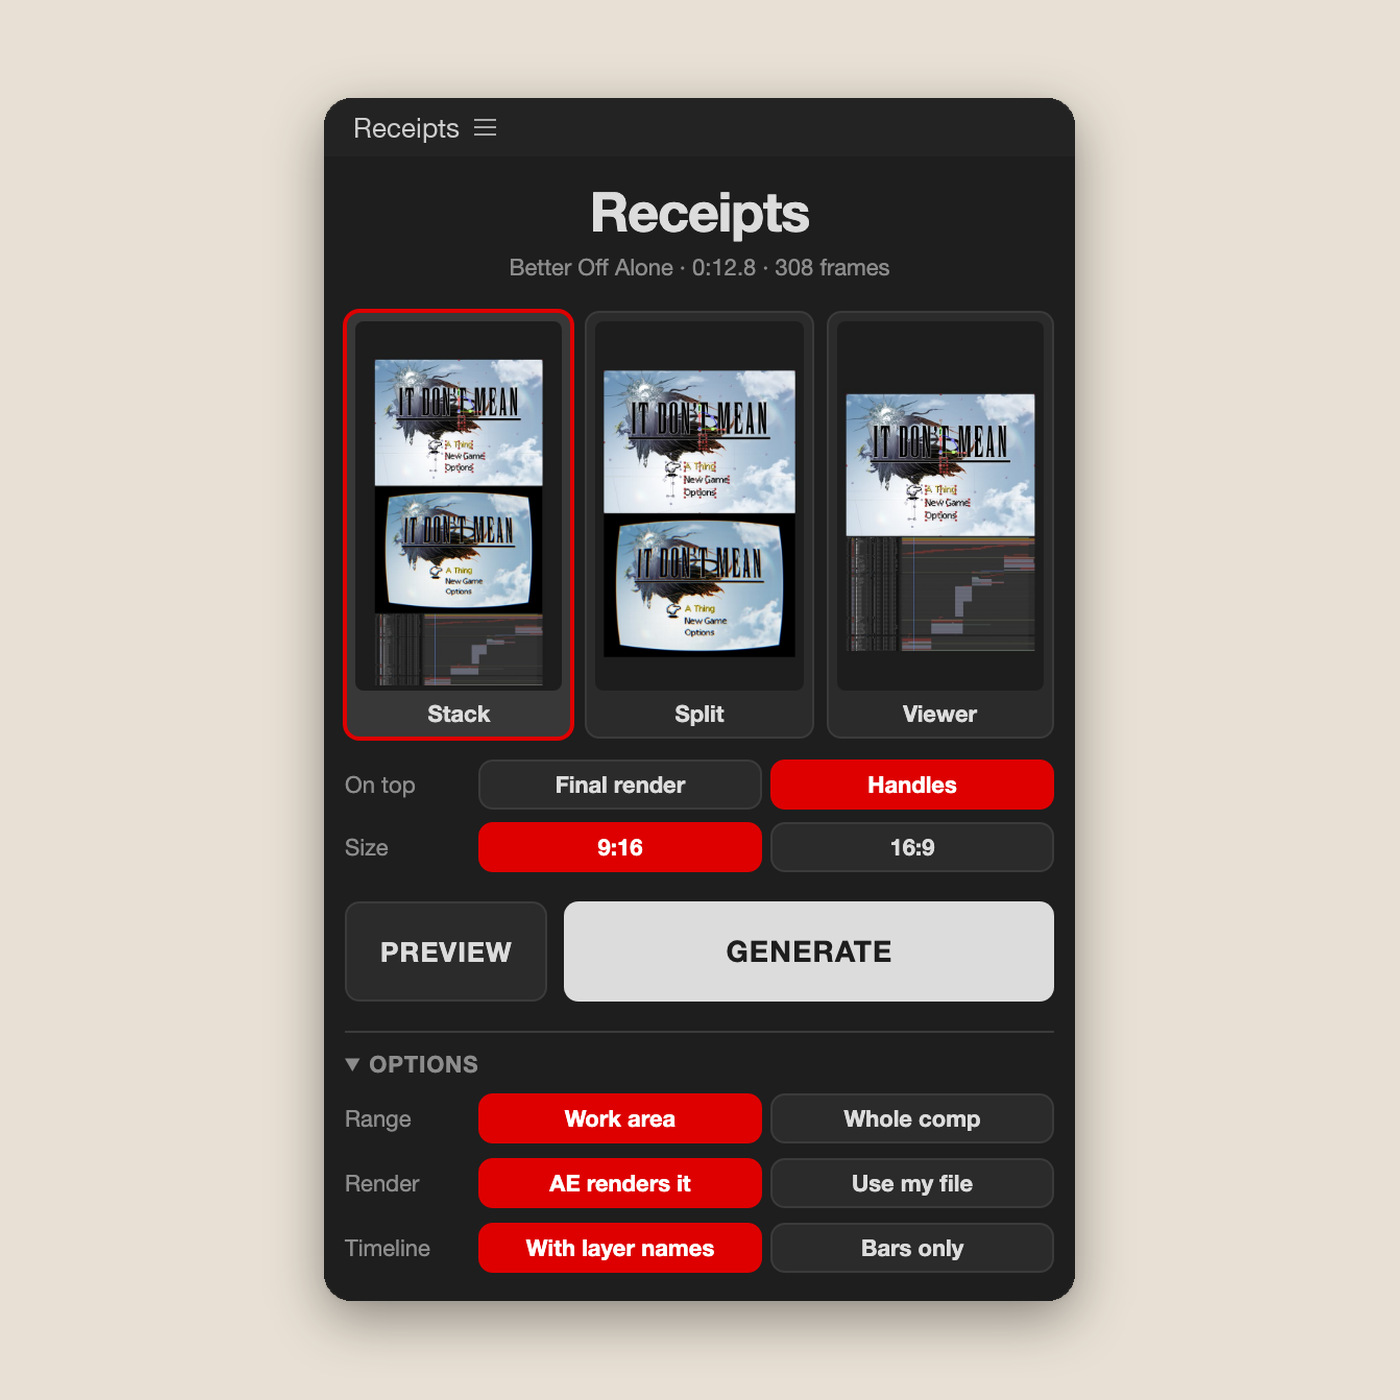
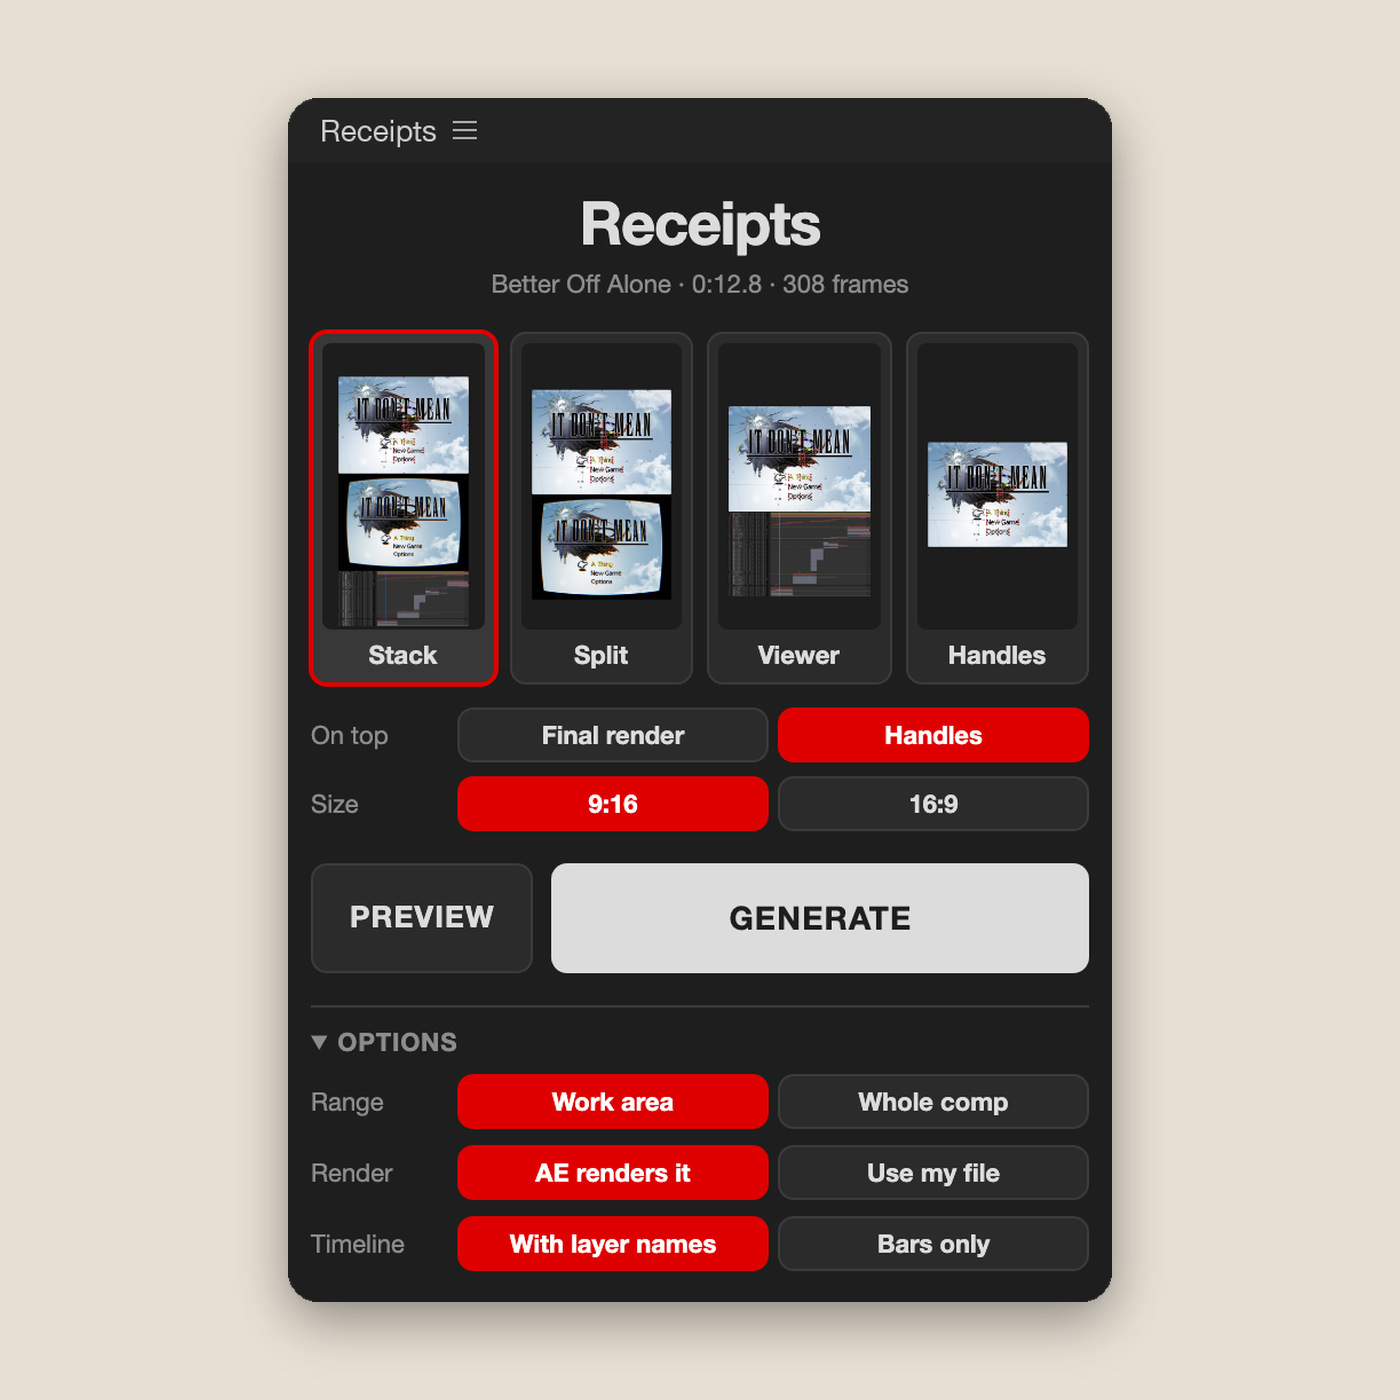
Receipts panel shot: four looks with Handles

Changed region(s): [[0.1843, 0.0614, 0.8293, 0.9521], [0.5836, 0.7679, 0.7371, 0.9214]]

diff --git a/assets/js/plugins.js b/assets/js/plugins.js
@@ -151,20 +151,21 @@ const plugins = [
          panel on its card, then each control in order. Cut from the same
          capture as the still and placed in percent of the card, so the last
          frame IS the still. Rebuild them together. */
-      { src: 'projects/plugins/receipts-ui.jpg?v=3', alt: 'The Receipts panel',
-        build: { base: 'projects/plugins/receipts-build/base.jpg?v=2', layers: [
-          { src: 'projects/plugins/receipts-build/01-header.png?v=2', x: 19.214, y: 13.071, w: 61.5 },
-          { src: 'projects/plugins/receipts-build/02-card1.png?v=2', x: 19.214, y: 24.857, w: 20.286 },
-          { src: 'projects/plugins/receipts-build/03-card2.png?v=2', x: 39.786, y: 24.857, w: 20.357 },
-          { src: 'projects/plugins/receipts-build/04-card3.png?v=2', x: 60.429, y: 24.857, w: 20.286 },
-          { src: 'projects/plugins/receipts-build/05-top.png?v=2', x: 19.214, y: 63.286, w: 61.5 },
-          { src: 'projects/plugins/receipts-build/06-size.png?v=2', x: 19.214, y: 68.714, w: 61.5 },
-          { src: 'projects/plugins/receipts-build/07-peek.png?v=2', x: 19.214, y: 75.5, w: 18.143 },
-          { src: 'projects/plugins/receipts-build/08-make.png?v=2', x: 38.0, y: 75.5, w: 42.714 },
-          { src: 'projects/plugins/receipts-build/09-opts.png?v=2', x: 19.214, y: 86.571, w: 61.5 }
+      { src: 'projects/plugins/receipts-ui.jpg?v=4', alt: 'The Receipts panel',
+        build: { base: 'projects/plugins/receipts-build/base.jpg?v=3', layers: [
+          { src: 'projects/plugins/receipts-build/01-header.png?v=3', x: 15.571, y: 13.786, w: 68.857 },
+          { src: 'projects/plugins/receipts-build/02-card1.png?v=3', x: 15.571, y: 27.0, w: 16.929 },
+          { src: 'projects/plugins/receipts-build/03-card2.png?v=3', x: 32.929, y: 27.0, w: 16.857 },
+          { src: 'projects/plugins/receipts-build/04-card3.png?v=3', x: 50.214, y: 27.0, w: 16.857 },
+          { src: 'projects/plugins/receipts-build/05-card4.png?v=3', x: 67.5, y: 27.0, w: 16.929 },
+          { src: 'projects/plugins/receipts-build/06-top.png?v=3', x: 15.571, y: 59.714, w: 68.857 },
+          { src: 'projects/plugins/receipts-build/07-size.png?v=3', x: 15.571, y: 65.714, w: 68.857 },
+          { src: 'projects/plugins/receipts-build/08-peek.png?v=3', x: 15.571, y: 73.286, w: 20.357 },
+          { src: 'projects/plugins/receipts-build/09-make.png?v=3', x: 36.571, y: 73.286, w: 47.857 },
+          { src: 'projects/plugins/receipts-build/10-opts.png?v=3', x: 15.571, y: 85.714, w: 68.857 }
         ] } },
       { video: 'projects/plugins/receipts-pair.mp4?v=1', src: 'projects/plugins/receipts-pair.jpg?v=1', overlay: 'projects/plugins/receipts-social.svg?v=10', alt: 'A Receipts process video, and the same video in the TikTok feed' },
-      { src: 'projects/plugins/receipts-ui-options.jpg?v=3', alt: 'The Receipts panel with its options open: range, render and timeline' }
+      { src: 'projects/plugins/receipts-ui-options.jpg?v=4', alt: 'The Receipts panel with its options open: range, render and timeline' }
     ],
     intro: `<p>Hit Generate and Receipts steps through your comp one frame at a time, screenshots the real viewer with every handle, path and gizmo After Effects draws, shoots the whole timeline, renders the comp, and builds a finished 4K process video, vertical 9:16 or wide 16:9. No screen recording, no cropping in Premiere.</p>
 <p>It finds the viewer and the timeline on its own and fits the comp in the viewer, then puts your zoom, playhead and selection back when it's done. Preview shows one frame in every look before you commit.</p>`,

diff --git a/bodyarmor-powerade.html b/bodyarmor-powerade.html
@@ -19,7 +19,7 @@
 <link rel="preconnect" href="https://fonts.googleapis.com">
 <link rel="preconnect" href="https://fonts.gstatic.com" crossorigin>
 <link href="https://fonts.googleapis.com/css2?family=Inter:ital,wght@0,300..700;1,300..700&display=swap" rel="stylesheet">
-<link rel="stylesheet" href="assets/css/site.css?v=359">
+<link rel="stylesheet" href="assets/css/site.css?v=360">
 <style>
   /* First paint: the header (logo + menu) stays put from page to page; the
      project itself builds top down (site.css, .project load-in). */
@@ -100,9 +100,9 @@
 </footer>
 
 <script>window.PROJECT_SLUG = "bodyarmor-powerade";</script>
-<script src="assets/js/projects.js?v=359"></script>
-<script src="assets/js/project-page.js?v=359"></script>
-<script src="assets/js/site.js?v=359"></script>
+<script src="assets/js/projects.js?v=360"></script>
+<script src="assets/js/project-page.js?v=360"></script>
+<script src="assets/js/site.js?v=360"></script>
 <!-- GoatCounter: page views, no cookies. Skips itself on localhost. -->
 <script data-goatcounter="https://michaelloya.goatcounter.com/count" async src="https://gc.zgo.at/count.js"></script>
 </body>

diff --git a/university-union.html b/university-union.html
@@ -19,7 +19,7 @@
 <link rel="preconnect" href="https://fonts.googleapis.com">
 <link rel="preconnect" href="https://fonts.gstatic.com" crossorigin>
 <link href="https://fonts.googleapis.com/css2?family=Inter:ital,wght@0,300..700;1,300..700&display=swap" rel="stylesheet">
-<link rel="stylesheet" href="assets/css/site.css?v=359">
+<link rel="stylesheet" href="assets/css/site.css?v=360">
 <style>
   /* First paint: the header (logo + menu) stays put from page to page; the
      project itself builds top down (site.css, .project load-in). */
@@ -100,9 +100,9 @@
 </footer>
 
 <script>window.PROJECT_SLUG = "university-union";</script>
-<script src="assets/js/projects.js?v=359"></script>
-<script src="assets/js/project-page.js?v=359"></script>
-<script src="assets/js/site.js?v=359"></script>
+<script src="assets/js/projects.js?v=360"></script>
+<script src="assets/js/project-page.js?v=360"></script>
+<script src="assets/js/site.js?v=360"></script>
 <!-- GoatCounter: page views, no cookies. Skips itself on localhost. -->
 <script data-goatcounter="https://michaelloya.goatcounter.com/count" async src="https://gc.zgo.at/count.js"></script>
 </body>

diff --git a/where-it-hurts.html b/where-it-hurts.html
@@ -19,7 +19,7 @@
 <link rel="preconnect" href="https://fonts.googleapis.com">
 <link rel="preconnect" href="https://fonts.gstatic.com" crossorigin>
 <link href="https://fonts.googleapis.com/css2?family=Inter:ital,wght@0,300..700;1,300..700&display=swap" rel="stylesheet">
-<link rel="stylesheet" href="assets/css/site.css?v=359">
+<link rel="stylesheet" href="assets/css/site.css?v=360">
 <style>
   /* First paint: the header (logo + menu) stays put from page to page; the
      project itself builds top down (site.css, .project load-in). */
@@ -100,9 +100,9 @@
 </footer>
 
 <script>window.PROJECT_SLUG = "where-it-hurts";</script>
-<script src="assets/js/projects.js?v=359"></script>
-<script src="assets/js/project-page.js?v=359"></script>
-<script src="assets/js/site.js?v=359"></script>
+<script src="assets/js/projects.js?v=360"></script>
+<script src="assets/js/project-page.js?v=360"></script>
+<script src="assets/js/site.js?v=360"></script>
 <!-- GoatCounter: page views, no cookies. Skips itself on localhost. -->
 <script data-goatcounter="https://michaelloya.goatcounter.com/count" async src="https://gc.zgo.at/count.js"></script>
 </body>

diff --git a/miscellaneous.html b/miscellaneous.html
@@ -19,7 +19,7 @@
 <link rel="preconnect" href="https://fonts.googleapis.com">
 <link rel="preconnect" href="https://fonts.gstatic.com" crossorigin>
 <link href="https://fonts.googleapis.com/css2?family=Inter:ital,wght@0,300..700;1,300..700&display=swap" rel="stylesheet">
-<link rel="stylesheet" href="assets/css/site.css?v=359">
+<link rel="stylesheet" href="assets/css/site.css?v=360">
 <style>
   /* First paint: the header (logo + menu) stays put from page to page; the
      project itself builds top down (site.css, .project load-in). */
@@ -100,9 +100,9 @@
 </footer>
 
 <script>window.PROJECT_SLUG = "miscellaneous";</script>
-<script src="assets/js/projects.js?v=359"></script>
-<script src="assets/js/project-page.js?v=359"></script>
-<script src="assets/js/site.js?v=359"></script>
+<script src="assets/js/projects.js?v=360"></script>
+<script src="assets/js/project-page.js?v=360"></script>
+<script src="assets/js/site.js?v=360"></script>
 <!-- GoatCounter: page views, no cookies. Skips itself on localhost. -->
 <script data-goatcounter="https://michaelloya.goatcounter.com/count" async src="https://gc.zgo.at/count.js"></script>
 </body>

diff --git a/album-covers.html b/album-covers.html
@@ -19,7 +19,7 @@
 <link rel="preconnect" href="https://fonts.googleapis.com">
 <link rel="preconnect" href="https://fonts.gstatic.com" crossorigin>
 <link href="https://fonts.googleapis.com/css2?family=Inter:ital,wght@0,300..700;1,300..700&display=swap" rel="stylesheet">
-<link rel="stylesheet" href="assets/css/site.css?v=359">
+<link rel="stylesheet" href="assets/css/site.css?v=360">
 <style>
   /* First paint: the header (logo + menu) stays put from page to page; the
      project itself builds top down (site.css, .project load-in). */
@@ -100,9 +100,9 @@
 </footer>
 
 <script>window.PROJECT_SLUG = "album-covers";</script>
-<script src="assets/js/projects.js?v=359"></script>
-<script src="assets/js/project-page.js?v=359"></script>
-<script src="assets/js/site.js?v=359"></script>
+<script src="assets/js/projects.js?v=360"></script>
+<script src="assets/js/project-page.js?v=360"></script>
+<script src="assets/js/site.js?v=360"></script>
 <!-- GoatCounter: page views, no cookies. Skips itself on localhost. -->
 <script data-goatcounter="https://michaelloya.goatcounter.com/count" async src="https://gc.zgo.at/count.js"></script>
 </body>

diff --git a/loya.html b/loya.html
@@ -19,7 +19,7 @@
 <link rel="preconnect" href="https://fonts.googleapis.com">
 <link rel="preconnect" href="https://fonts.gstatic.com" crossorigin>
 <link href="https://fonts.googleapis.com/css2?family=Inter:ital,wght@0,300..700;1,300..700&display=swap" rel="stylesheet">
-<link rel="stylesheet" href="assets/css/site.css?v=359">
+<link rel="stylesheet" href="assets/css/site.css?v=360">
 <style>
   /* First paint: the header (logo + menu) stays put from page to page; the
      project itself builds top down (site.css, .project load-in). */
@@ -100,9 +100,9 @@
 </footer>
 
 <script>window.PROJECT_SLUG = "loya";</script>
-<script src="assets/js/projects.js?v=359"></script>
-<script src="assets/js/project-page.js?v=359"></script>
-<script src="assets/js/site.js?v=359"></script>
+<script src="assets/js/projects.js?v=360"></script>
+<script src="assets/js/project-page.js?v=360"></script>
+<script src="assets/js/site.js?v=360"></script>
 <!-- GoatCounter: page views, no cookies. Skips itself on localhost. -->
 <script data-goatcounter="https://michaelloya.goatcounter.com/count" async src="https://gc.zgo.at/count.js"></script>
 </body>

diff --git a/index.html b/index.html
@@ -19,7 +19,7 @@
 <link rel="preconnect" href="https://fonts.googleapis.com">
 <link rel="preconnect" href="https://fonts.gstatic.com" crossorigin>
 <link rel="stylesheet" href="https://use.typekit.net/oft2xxg.css">
-<link rel="stylesheet" href="assets/css/site.css?v=359">
+<link rel="stylesheet" href="assets/css/site.css?v=360">
 <style>
   /* First-paint guard. Applies before anything else resolves, so the page
      never flashes raw content before the load-in animations start.
@@ -127,9 +127,9 @@
 </footer>
 
 <!-- ══ PROJECT DETAIL ══ -->
-<script src="assets/js/projects.js?v=359"></script>
-<script src="assets/js/hero.js?v=359"></script>
-<script src="assets/js/site.js?v=359"></script>
+<script src="assets/js/projects.js?v=360"></script>
+<script src="assets/js/hero.js?v=360"></script>
+<script src="assets/js/site.js?v=360"></script>
 <!-- GoatCounter: page views, no cookies. Skips itself on localhost. -->
 <script data-goatcounter="https://michaelloya.goatcounter.com/count" async src="https://gc.zgo.at/count.js"></script>
 </body>

diff --git a/clippings.html b/clippings.html
@@ -18,7 +18,7 @@
 
 <link rel="preconnect" href="https://fonts.googleapis.com">
 <link rel="preconnect" href="https://fonts.gstatic.com" crossorigin>
-<link rel="stylesheet" href="assets/css/site.css?v=359">
+<link rel="stylesheet" href="assets/css/site.css?v=360">
 <style>
   /* First-paint guard. Applies before anything else resolves, so the page
      never flashes raw content before the load-in animations start.
@@ -101,9 +101,9 @@
 </footer>
 
 <script>window.PLUGIN_SLUG = "clippings";</script>
-<script src="assets/js/plugins.js?v=359"></script>
-<script src="assets/js/plugin-page.js?v=359"></script>
-<script src="assets/js/site.js?v=359"></script>
+<script src="assets/js/plugins.js?v=360"></script>
+<script src="assets/js/plugin-page.js?v=360"></script>
+<script src="assets/js/site.js?v=360"></script>
 <!-- GoatCounter: page views, no cookies. Skips itself on localhost. -->
 <script data-goatcounter="https://michaelloya.goatcounter.com/count" async src="https://gc.zgo.at/count.js"></script>
 </body>

diff --git a/receipts.html b/receipts.html
@@ -18,7 +18,7 @@
 
 <link rel="preconnect" href="https://fonts.googleapis.com">
 <link rel="preconnect" href="https://fonts.gstatic.com" crossorigin>
-<link rel="stylesheet" href="assets/css/site.css?v=359">
+<link rel="stylesheet" href="assets/css/site.css?v=360">
 <style>
   /* First-paint guard. Applies before anything else resolves, so the page
      never flashes raw content before the load-in animations start.
@@ -101,9 +101,9 @@
 </footer>
 
 <script>window.PLUGIN_SLUG = "receipts";</script>
-<script src="assets/js/plugins.js?v=359"></script>
-<script src="assets/js/plugin-page.js?v=359"></script>
-<script src="assets/js/site.js?v=359"></script>
+<script src="assets/js/plugins.js?v=360"></script>
+<script src="assets/js/plugin-page.js?v=360"></script>
+<script src="assets/js/site.js?v=360"></script>
 <!-- GoatCounter: page views, no cookies. Skips itself on localhost. -->
 <script data-goatcounter="https://michaelloya.goatcounter.com/count" async src="https://gc.zgo.at/count.js"></script>
 </body>

diff --git a/gh-midi.html b/gh-midi.html
@@ -18,7 +18,7 @@
 
 <link rel="preconnect" href="https://fonts.googleapis.com">
 <link rel="preconnect" href="https://fonts.gstatic.com" crossorigin>
-<link rel="stylesheet" href="assets/css/site.css?v=359">
+<link rel="stylesheet" href="assets/css/site.css?v=360">
 <style>
   /* First-paint guard. Applies before anything else resolves, so the page
      never flashes raw content before the load-in animations start.
@@ -101,9 +101,9 @@
 </footer>
 
 <script>window.PLUGIN_SLUG = "gh-midi";</script>
-<script src="assets/js/plugins.js?v=359"></script>
-<script src="assets/js/plugin-page.js?v=359"></script>
-<script src="assets/js/site.js?v=359"></script>
+<script src="assets/js/plugins.js?v=360"></script>
+<script src="assets/js/plugin-page.js?v=360"></script>
+<script src="assets/js/site.js?v=360"></script>
 <!-- GoatCounter: page views, no cookies. Skips itself on localhost. -->
 <script data-goatcounter="https://michaelloya.goatcounter.com/count" async src="https://gc.zgo.at/count.js"></script>
 </body>

diff --git a/all.html b/all.html
@@ -18,7 +18,7 @@
 
 <link rel="preconnect" href="https://fonts.googleapis.com">
 <link rel="preconnect" href="https://fonts.gstatic.com" crossorigin>
-<link rel="stylesheet" href="assets/css/site.css?v=359">
+<link rel="stylesheet" href="assets/css/site.css?v=360">
 <style>
   /* First-paint guard. Applies before anything else resolves, so the page
      never flashes raw content before the load-in animations start.
@@ -97,9 +97,9 @@
   </div>
 </footer>
 
-<script src="assets/js/projects.js?v=359"></script>
-<script src="assets/js/plugins.js?v=359"></script>
-<script src="assets/js/site.js?v=359"></script>
+<script src="assets/js/projects.js?v=360"></script>
+<script src="assets/js/plugins.js?v=360"></script>
+<script src="assets/js/site.js?v=360"></script>
 <!-- GoatCounter: page views, no cookies. Skips itself on localhost. -->
 <script data-goatcounter="https://michaelloya.goatcounter.com/count" async src="https://gc.zgo.at/count.js"></script>
 </body>
